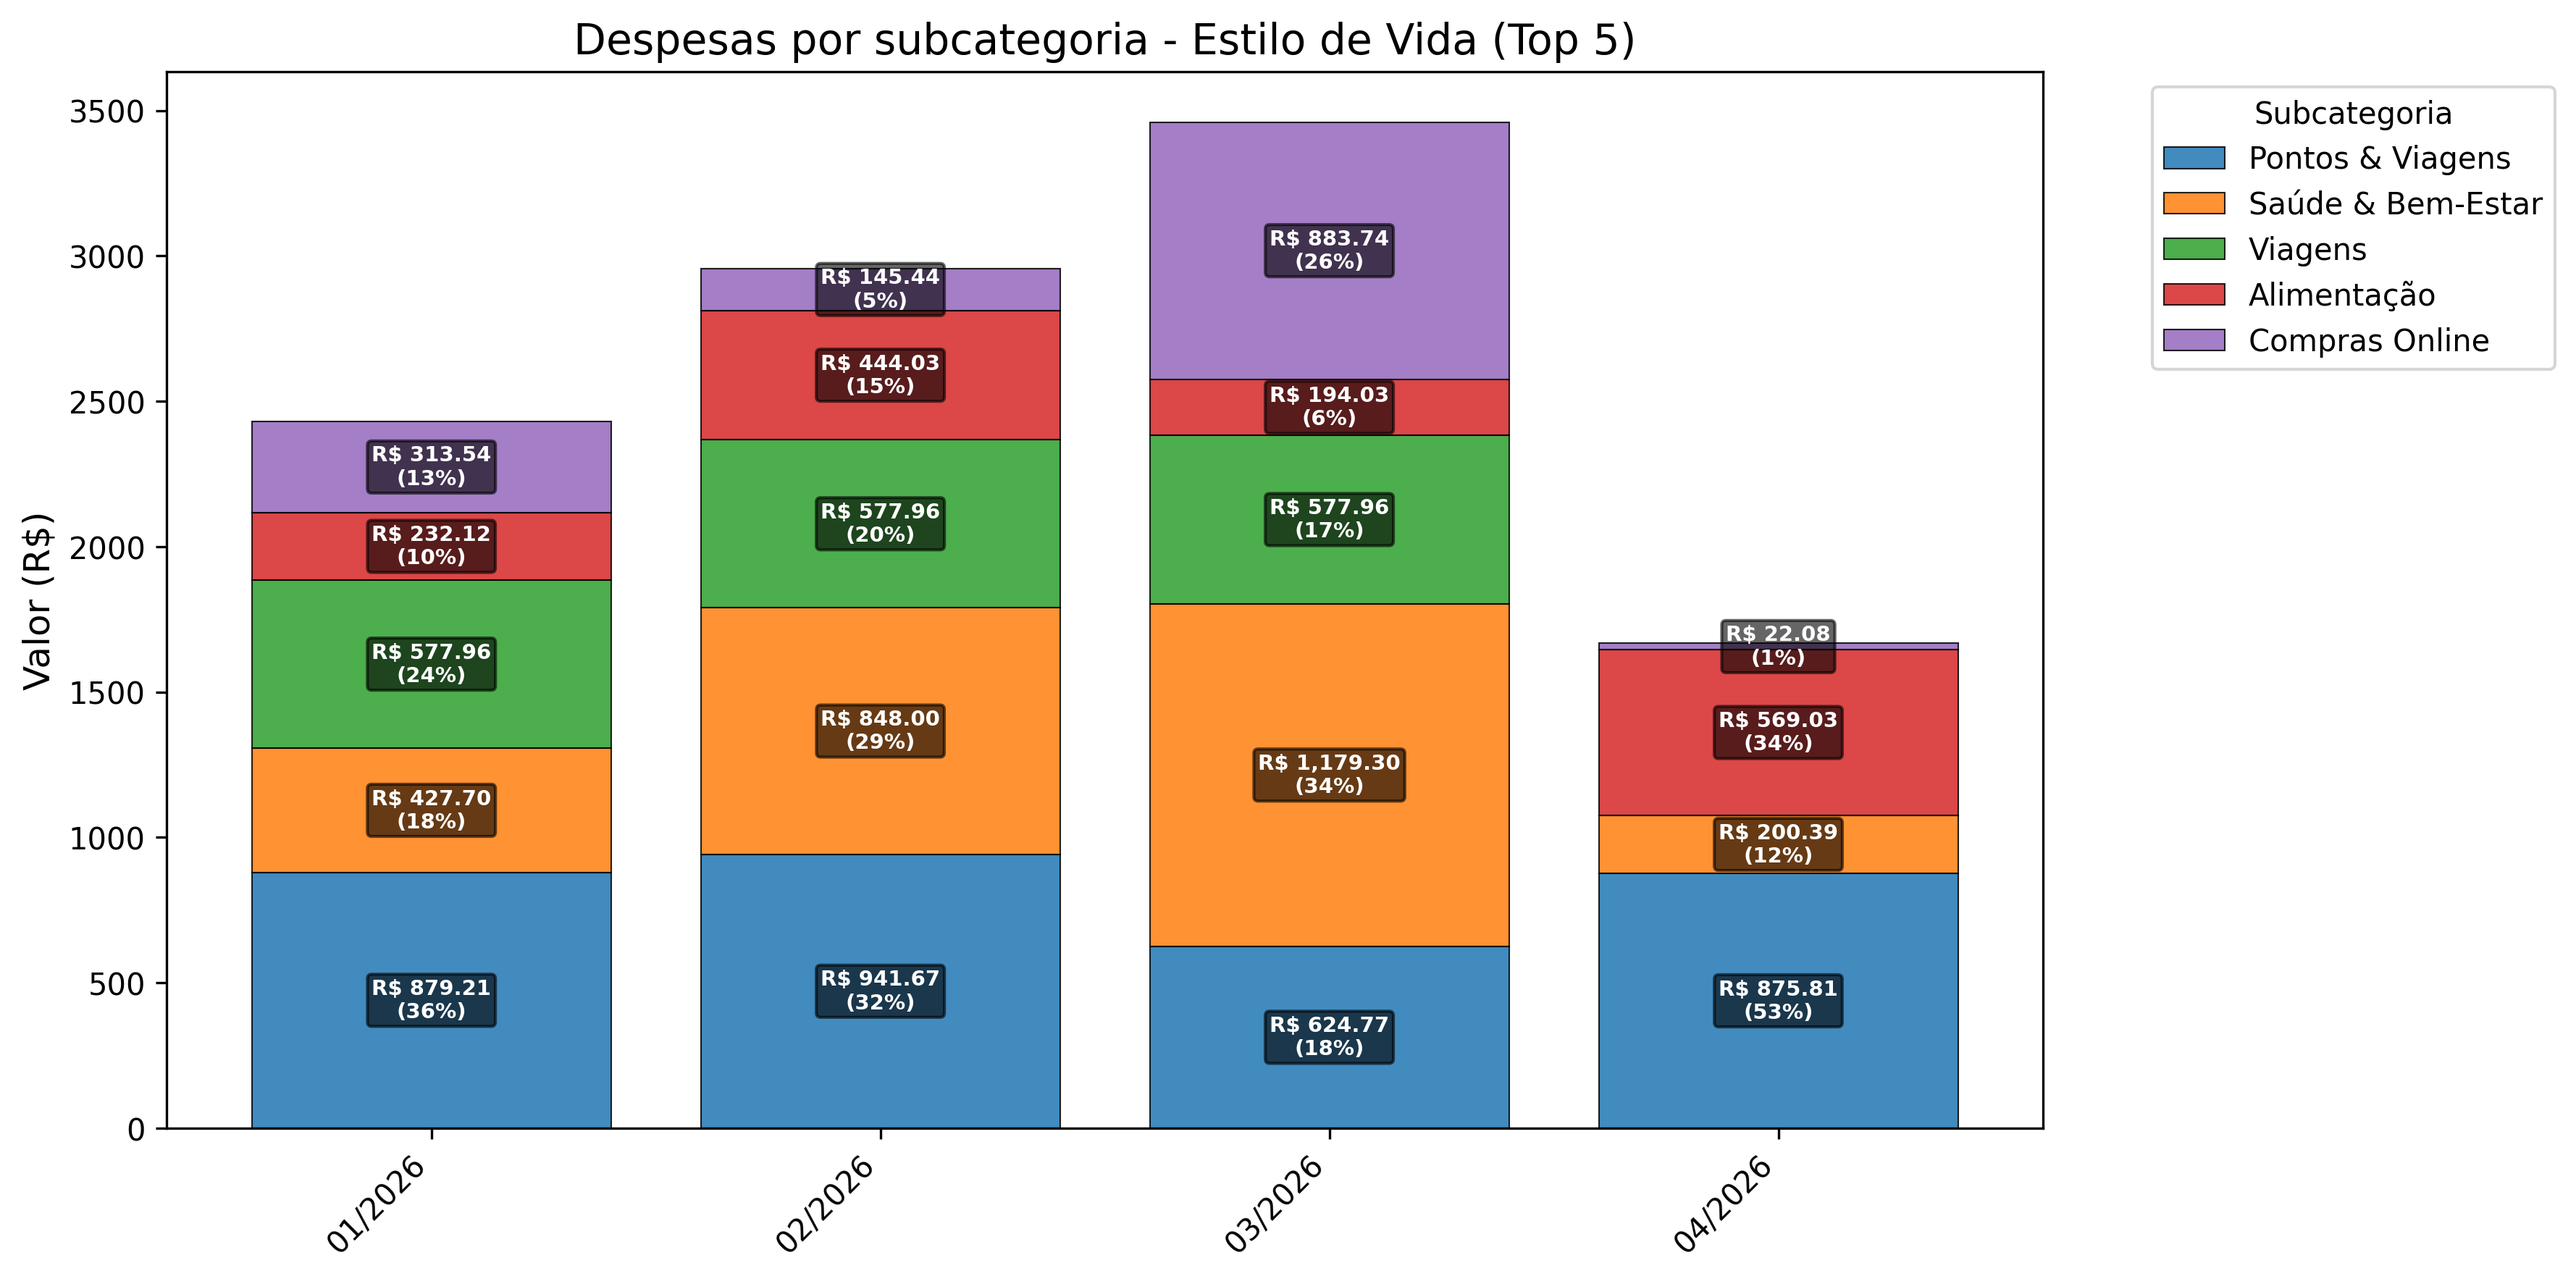
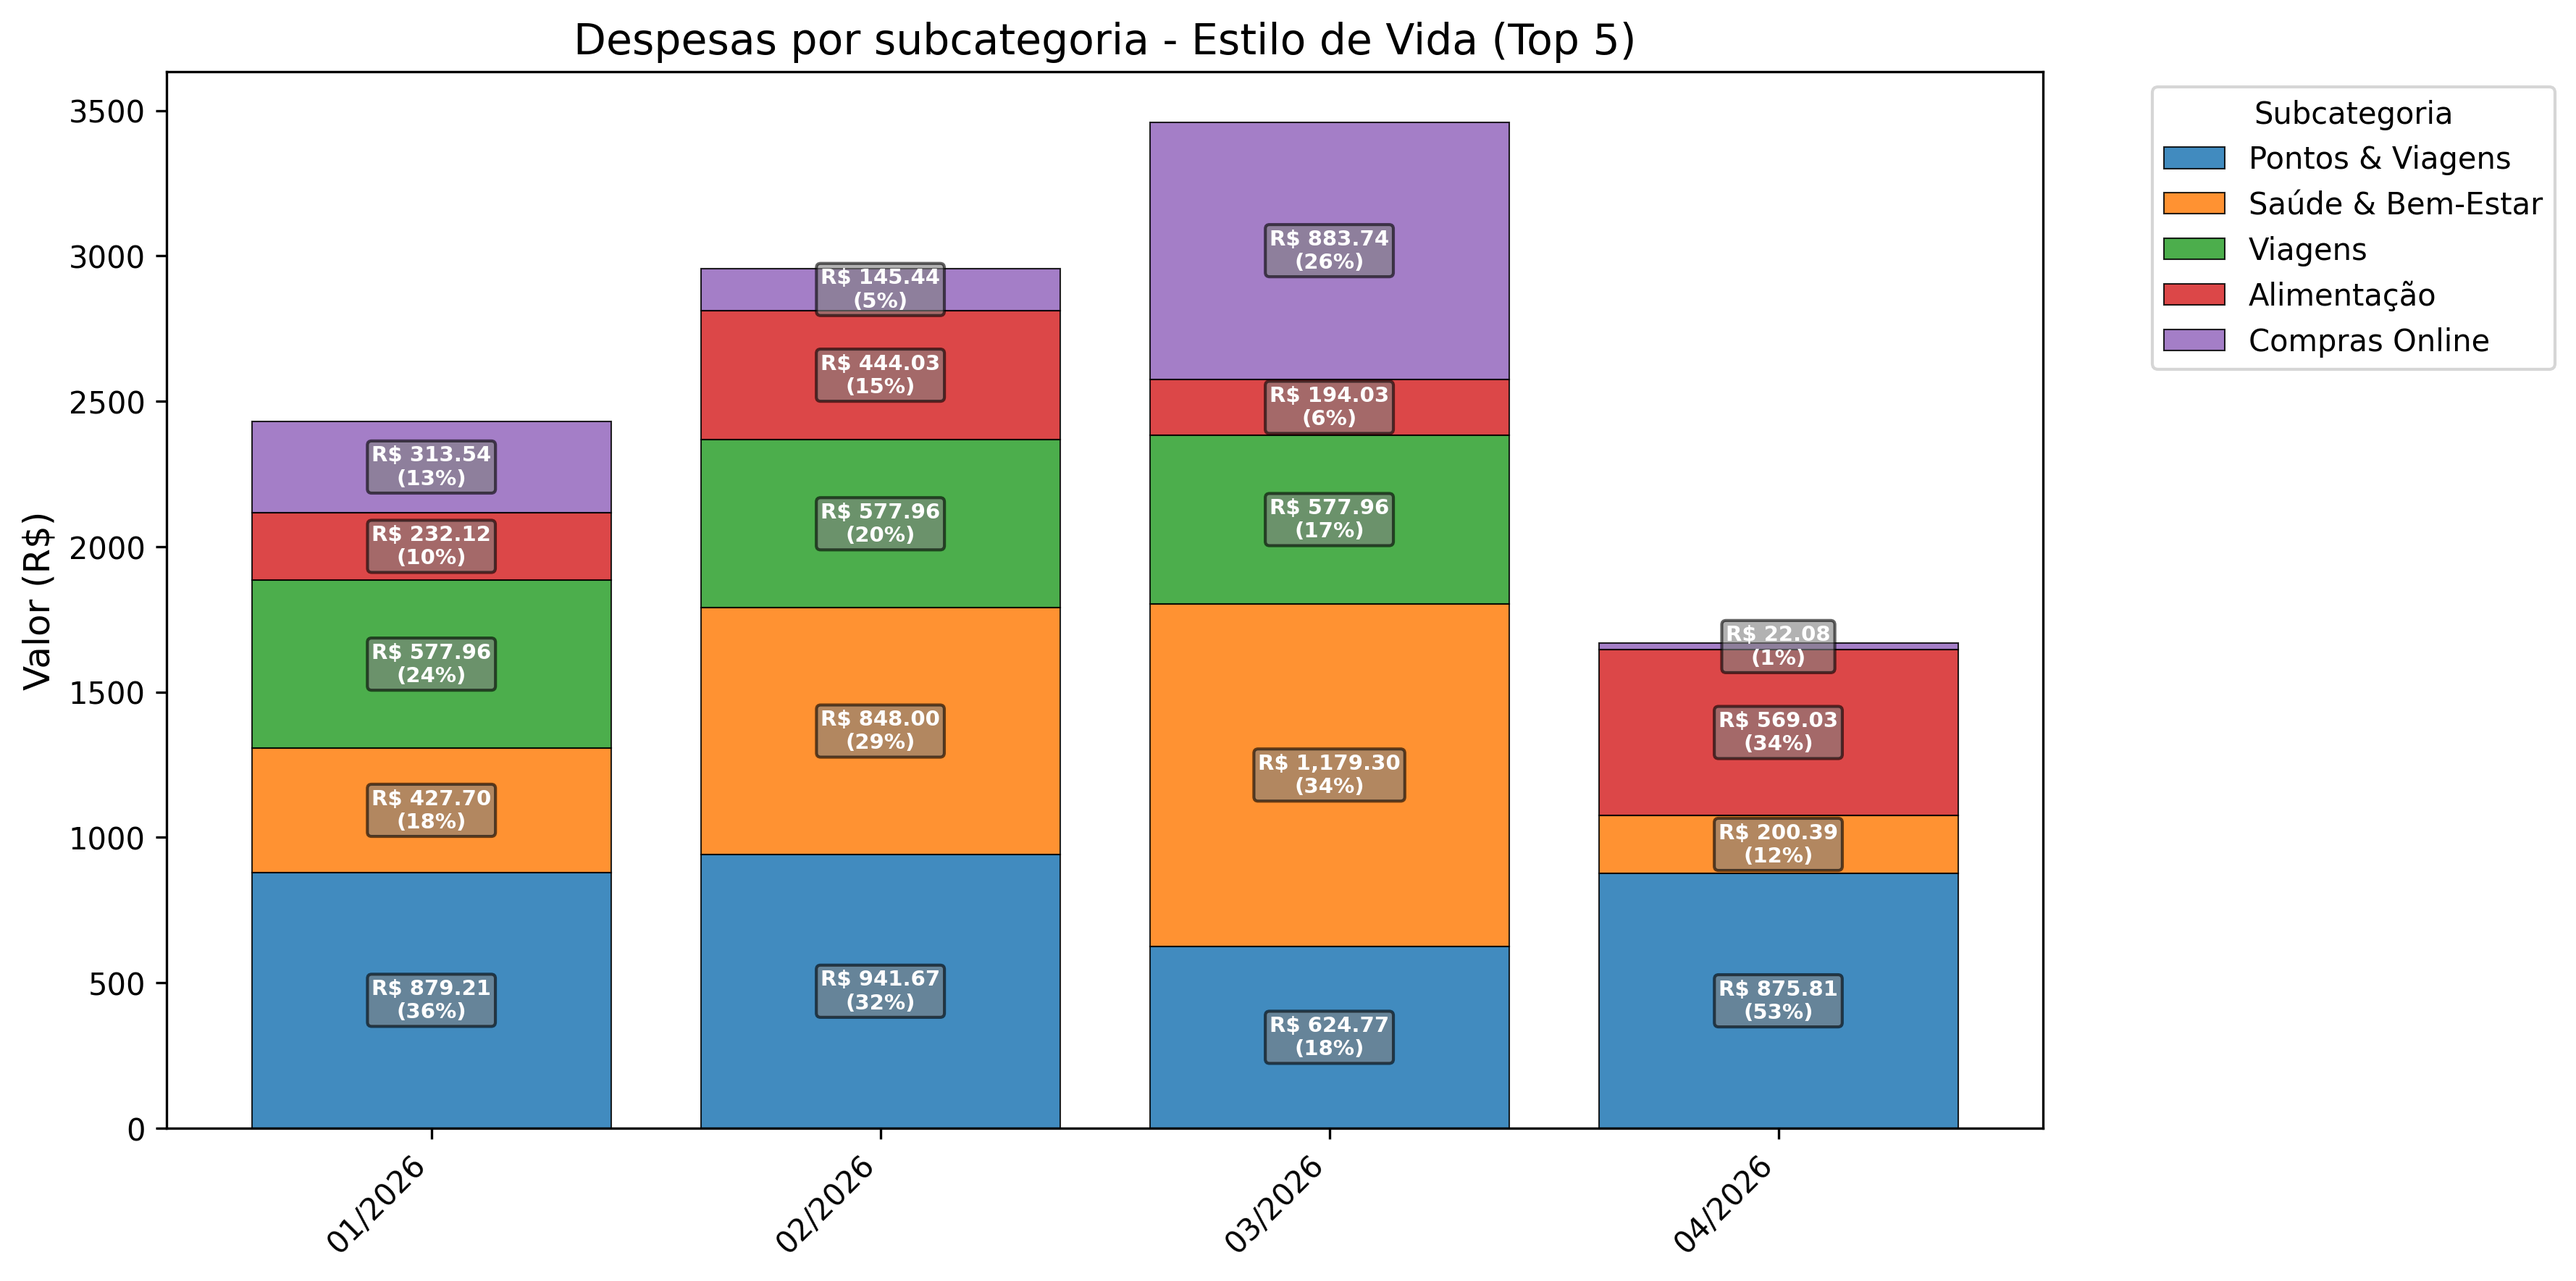
updated main

diff --git a/main.py b/main.py
@@ -56,7 +56,8 @@ def classificar_gasto_cartao(descricao):
     desc = re.sub(r'\d{2}/\d{2}', '', desc)
     desc = re.sub(r'\s+', ' ', desc)
     desc = desc.strip()
-    desc = re.sub(r'^(mp\*|asaas\*|zp\*|hna\*|pg\*|jim\.com\s*)', '', desc)
+    desc = re.sub(r'^(|asaas\*|zp\*|hna\*|pg\*|jim\.com\s*)', '', desc)
+    # mp\*
 
     casos_diretos = [
         (r'pgconta hubert imo', 'Residência', 'Condomínio', 1.0),
@@ -68,8 +69,10 @@ def classificar_gasto_cartao(descricao):
         (r'99food', 'Estilo de Vida', 'Alimentação', 0.95),
         (r'uber.*trip|uber\*', 'Estilo de Vida', 'Mobilidade', 0.95),
         (r'99\*', 'Estilo de Vida', 'Mobilidade', 0.9),
-        (r'totalpass|gympass|wellhub|nazareias|sports', 'Estilo de Vida', 'Saúde & Bem-Estar', 0.95),
-        (r'azul linhas aereas bras|accor|mino|melimais|livelo|ig\*', 'Estilo de Vida', 'Pontos & Viagens', 0.95),
+        (r'totalpass|gympass|wellhub|nazareias|sports|510535010001', 'Estilo de Vida', 'Saúde & Bem-Estar', 0.95),
+        (r'azul linhas aereas bras|accor|melimais|livelo|ig\*', 'Estilo de Vida', 'Pontos & Viagens', 0.95),
+        (r'mp\*mino', 'Estilo de Vida', 'Pontos & Viagens', 0.95),         
+        (r'emporio\s*amino', 'Estilo de Vida', 'Alimentação', 0.95),
         (r'envio mens.automatica', 'Estilo de Vida', 'Serviços Financeiros', 0.95),
         (r'cod3rs', 'Estilo de Vida', 'Mentoria & Carreira', 0.95),
         (r'pg \*coders club', 'Estilo de Vida', 'Mentoria & Carreira', 0.95),
@@ -90,7 +93,7 @@ def classificar_gasto_cartao(descricao):
         (r'ass de deus min ipiran', 'Estilo de Vida', 'Doações', 0.85),
         (r'ipiranga', 'Estilo de Vida', 'Doações', 0.8),
         (r'astor comercio de alime|outback|restaurante|pizzaria|burger|mc donalds|mcdonalds|63430674geovanna', 'Estilo de Vida', 'Alimentação', 0.9),
-        (r'cafe|cafeteria|emporio amino|doces|37773965faiane|fini|brasil cacau|doceria contem amor|chocolandia|picole sabore mix|senhorita food truck|vivano steak|viena express shopping|tutti frutti|papa dominico mooca|big bread|santa monica paes', 'Estilo de Vida', 'Doces & Padaria', 0.85),
+        (r'cafe|cafeteria|doces|37773965faiane|fini|brasil cacau|doceria contem amor|chocolandia|picole sabore mix|senhorita food truck|vivano steak|viena express shopping|tutti frutti|papa dominico mooca|big bread|santa monica paes', 'Estilo de Vida', 'Doces & Padaria', 0.85),
         (r'bocado gastronomia|fun funchal', 'Estilo de Vida', 'Alimentação', 0.85),
         (r'd clinic estetica|almeida studio ha|barbearianovoesti|mp*ciadabeleza|makibella shop|decathlon', 'Estilo de Vida', 'Beleza & Cosméticos & Roupas', 0.9),
         (r'cinemark|cinema', 'Estilo de Vida', 'Lazer', 0.85),
@@ -195,6 +198,13 @@ def classificar_gasto_cartao(descricao):
 # ========== APLICAÇÃO DA CLASSIFICAÇÃO ==========
 print("Classificando gastos...")
 gastos[['categoria_macro', 'categoria_l2', 'score']] = gastos['DESCRIPTION'].apply(lambda x: pd.Series(classificar_gasto_cartao(x)))
+
+print("\n")
+print("TRANSAÇÕES COM BAIXA CONFIANÇA")
+# Mostrar classificações com baixa confiança
+baixa_confianca = gastos[gastos['score'] < 0.6]
+print(f"Transações com score < 0.6: {len(baixa_confianca)}")
+print(baixa_confianca[['DESCRIPTION', 'categoria_macro', 'categoria_l2', 'score']])
 
 # ========== ANÁLISE DOS "OUTROS" ==========
 print("\n" + "="*60)

diff --git a/categorias.py b/categorias.py
@@ -84,9 +84,20 @@ def plot_top_subcategorias_matplotlib(df, categoria_macro, top_n=5, figsize=(12,
                 y_pos = bottoms[j] + valor / 2
                 texto = f'R$ {valor:,.2f}\n({proporcao:.0f}%)'
                 # Fundo preto semitransparente para contraste
-                ax.text(j, y_pos, texto, ha='center', va='center', fontsize=7,
-                        color='white', weight='bold',
-                        bbox=dict(boxstyle='round,pad=0.2', facecolor='black', alpha=0.6))
+                ax.text(j, 
+                        y_pos, 
+                        texto, 
+                        ha='center', 
+                        va='center', 
+                        fontsize=7,
+                        color='white', 
+                        weight='bold',
+                        bbox=dict(
+                            boxstyle='round,pad=0.2', 
+                            facecolor='gray', 
+                            alpha=0.6
+                        )
+                )
         bottoms += valores[:, i]
 
     ax.set_title(f'Despesas por subcategoria - {categoria_macro} (Top {top_n})', fontsize=14)
@@ -104,7 +115,7 @@ def plot_top_subcategorias_matplotlib(df, categoria_macro, top_n=5, figsize=(12,
         perc = val / total_por_subcat.sum() * 100
         print(f"   {sub}: R$ {val:,.2f} ({perc:.1f}%)")
     print("="*60 + "\n")
-    
+
     salvar_imagem(fig, 'categoria_subcat.png')
     plt.show()
     return fig
